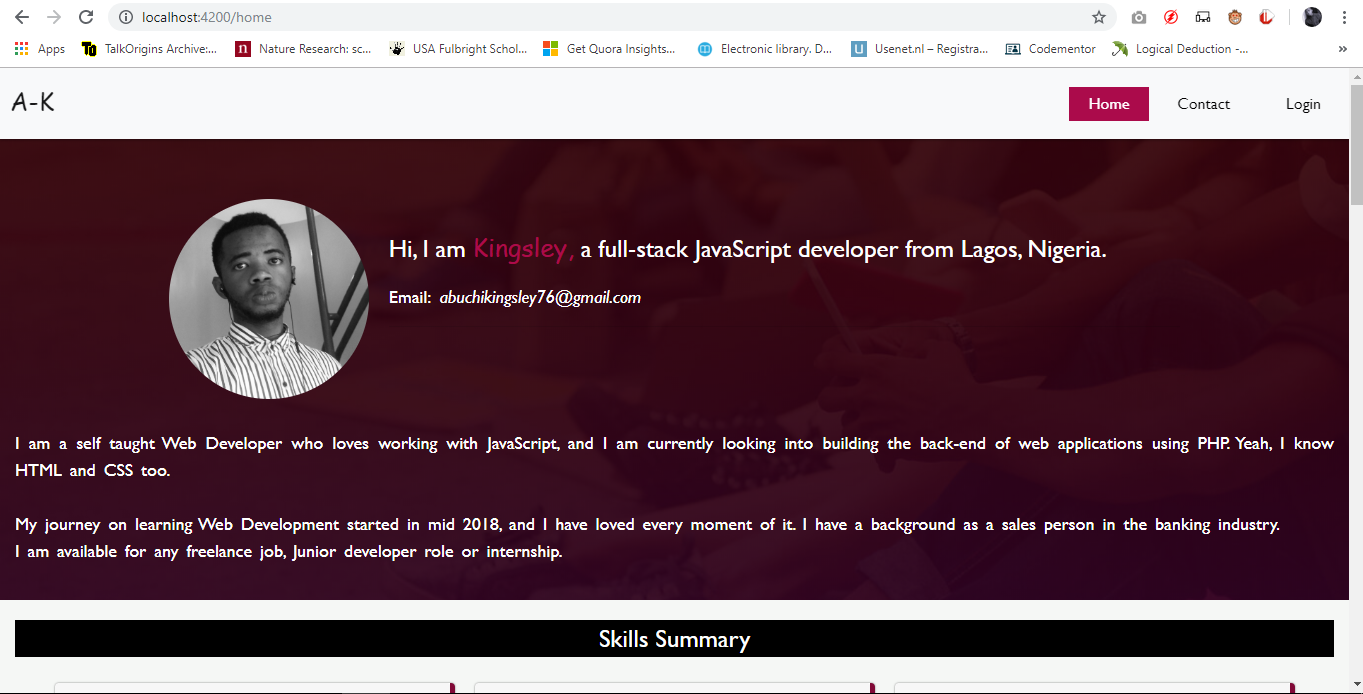
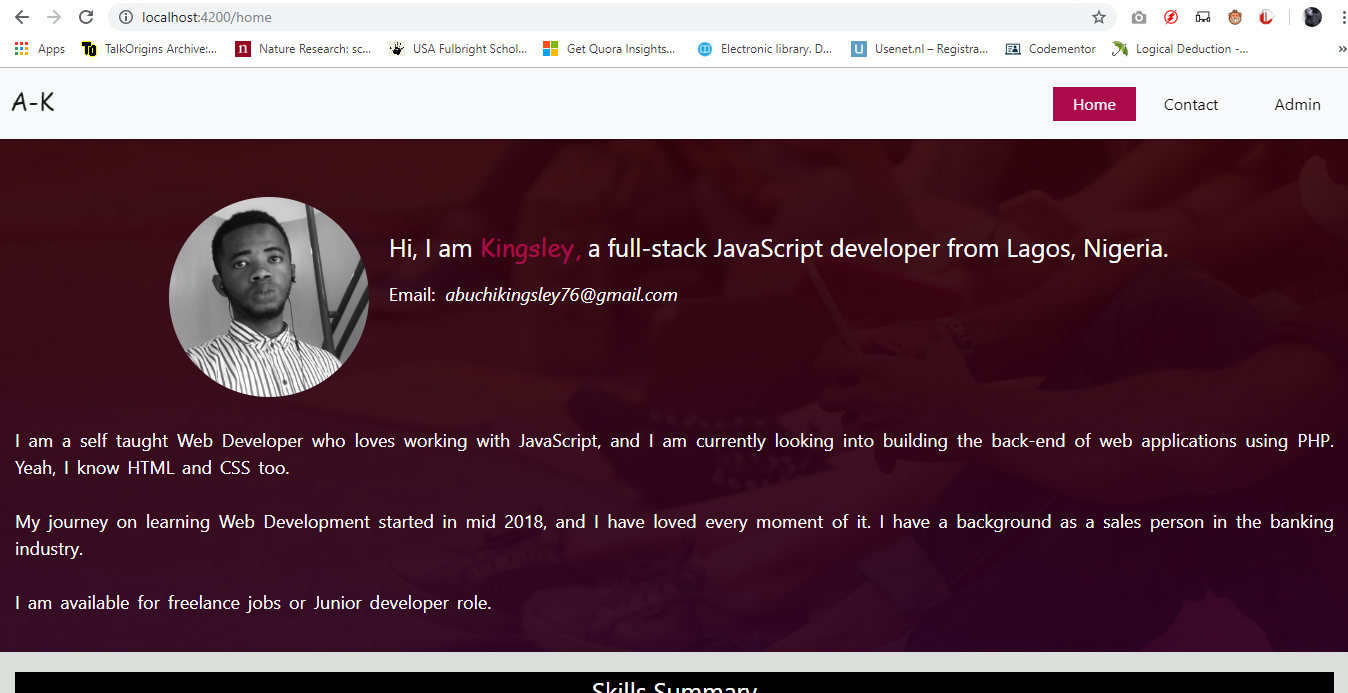
Added min-netflix project

diff --git a/src/app/main/home.component.html b/src/app/main/home.component.html
@@ -28,9 +28,8 @@
                     My journey on learning Web Development started in mid 2018, and
                     I have loved every moment of it. I have a background as a sales
                     person in the banking industry.
-                    <br>
-                    I am available for any freelance job, Junior developer role
-                    or internship.</p>
+                    <BR><BR>
+                    I am available for freelance jobs or Junior developer role.</p>
             </div>
         </div>
     </section>
@@ -49,6 +48,7 @@
                         <li><span></span>HTML</li>
                         <li><span></span>CSS/LESS</li>
                         <li><span></span>JavaScript</li>
+                        <li><span></span>Typescript</li>
                         <li><span></span>Angular</li>
 
                     </ul>
@@ -80,6 +80,7 @@
                 </div>
             </div>
 
+
         </div>
 
     </section>
@@ -94,11 +95,28 @@
 
             <div class="card">
                 <div class="project-image">
+                    <img src="./assets/images/mini-netflix.png" alt="Project image" title="iReporter">
+                </div>
+
+                <div class="project-link">
+                    <a href="https://abuchikingsley-mininetflix.netlify.com/home" target="_blank" rel="noopener noreferrer">Mini-Netflix</a>
+                </div>
+
+                <div class="project-tags">
+                    <span class="tags">HTML</span>
+                    <span class="tags">CSS</span>
+                    <span class="tags">JavaScript</span>
+                    <span class="tags">Typescript</span>
+                    <span class="tags">Angular</span>
+                </div>
+            </div>
+            <div class="card">
+                <div class="project-image">
                     <img src="./assets/images/ireport.png" alt="Project image" title="iReporter">
                 </div>
 
                 <div class="project-link">
-                    <a href="" target="_blank" rel="noopener noreferrer">iReporter</a>
+                    <a href="https://abuchikings-ireporter.herokuapp.com/" target="_blank" rel="noopener noreferrer">iReporter</a>
                 </div>
 
                 <div class="project-tags">

diff --git a/src/app/main/contact.component.html b/src/app/main/contact.component.html
@@ -5,7 +5,7 @@
         <p class="ad">
             I am currently available for any freelance jobs or junior developer role
             which involves anything javascript or the Angular framework. I also have experience building
-            the back end of scalable modern web applications using NodeJs. Contact me on <a
+            backS end of modern web applications using NodeJs. Contact me on <a
                 href="mailto:abuchikingsley76@gmail.com" target="_blank" rel="noopener noreferrer">
                 abuchikingsley76@gmail.com
             </a>

diff --git a/src/app/nav/navbar.component.html b/src/app/nav/navbar.component.html
@@ -13,7 +13,7 @@
               <a class="nav-link contact link" id="contact" [routerLink]="['/contact']" routerLinkActive="active" >Contact</a>
             </li>
             <li class="nav-item">
-              <a class="nav-link link" id="login" [routerLink]="['/login']" routerLinkActive="active" >Login</a>
+              <a class="nav-link link" id="login" [routerLink]="['/login']" routerLinkActive="active" >Admin</a>
             </li>
           </ul>
         </div>

diff --git a/src/app/main/home.component.css b/src/app/main/home.component.css
@@ -115,6 +115,13 @@ div.flex-container .card {
     flex: 1 300px;
 }
 
+i{
+    max-width: 400px;
+    flex: 1 300px;
+    margin: 10px;
+
+}
+
 p.card-header {
     background-color: none;
     font-size: 20px;
@@ -228,5 +235,9 @@ span.tags {
         float: none;
         padding-top: 20px;
         margin-left: 0;
+    }
+    .name {
+        font-size: 20px;
+        color: white;
     }
 }
